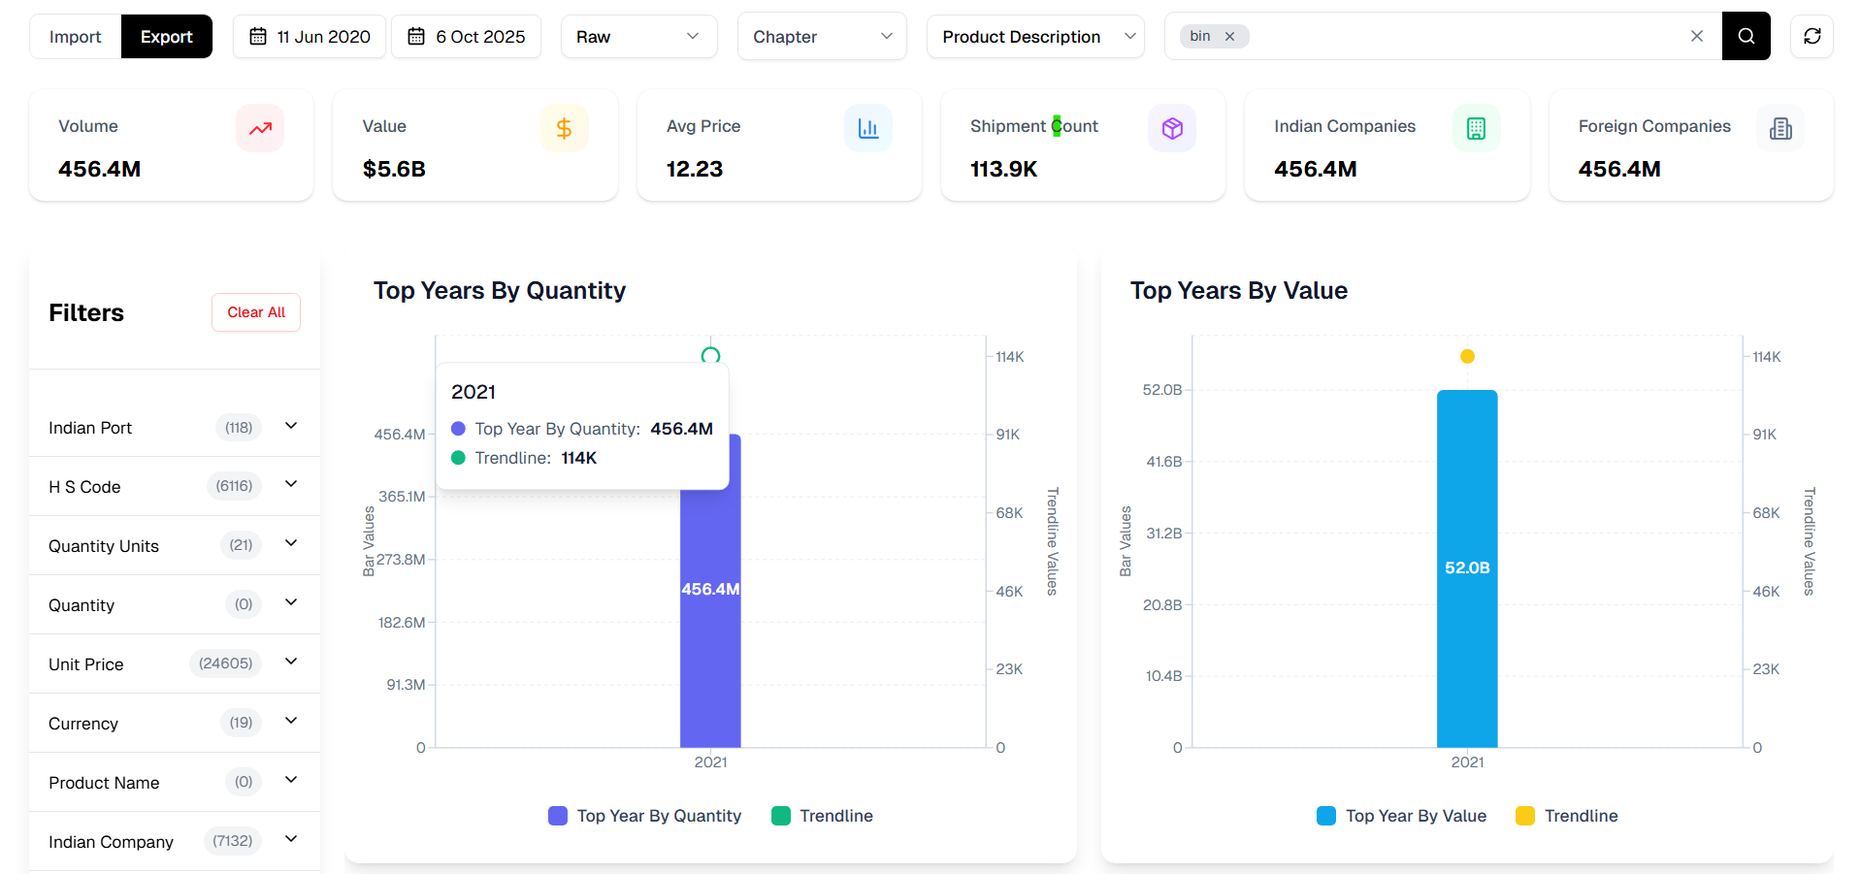
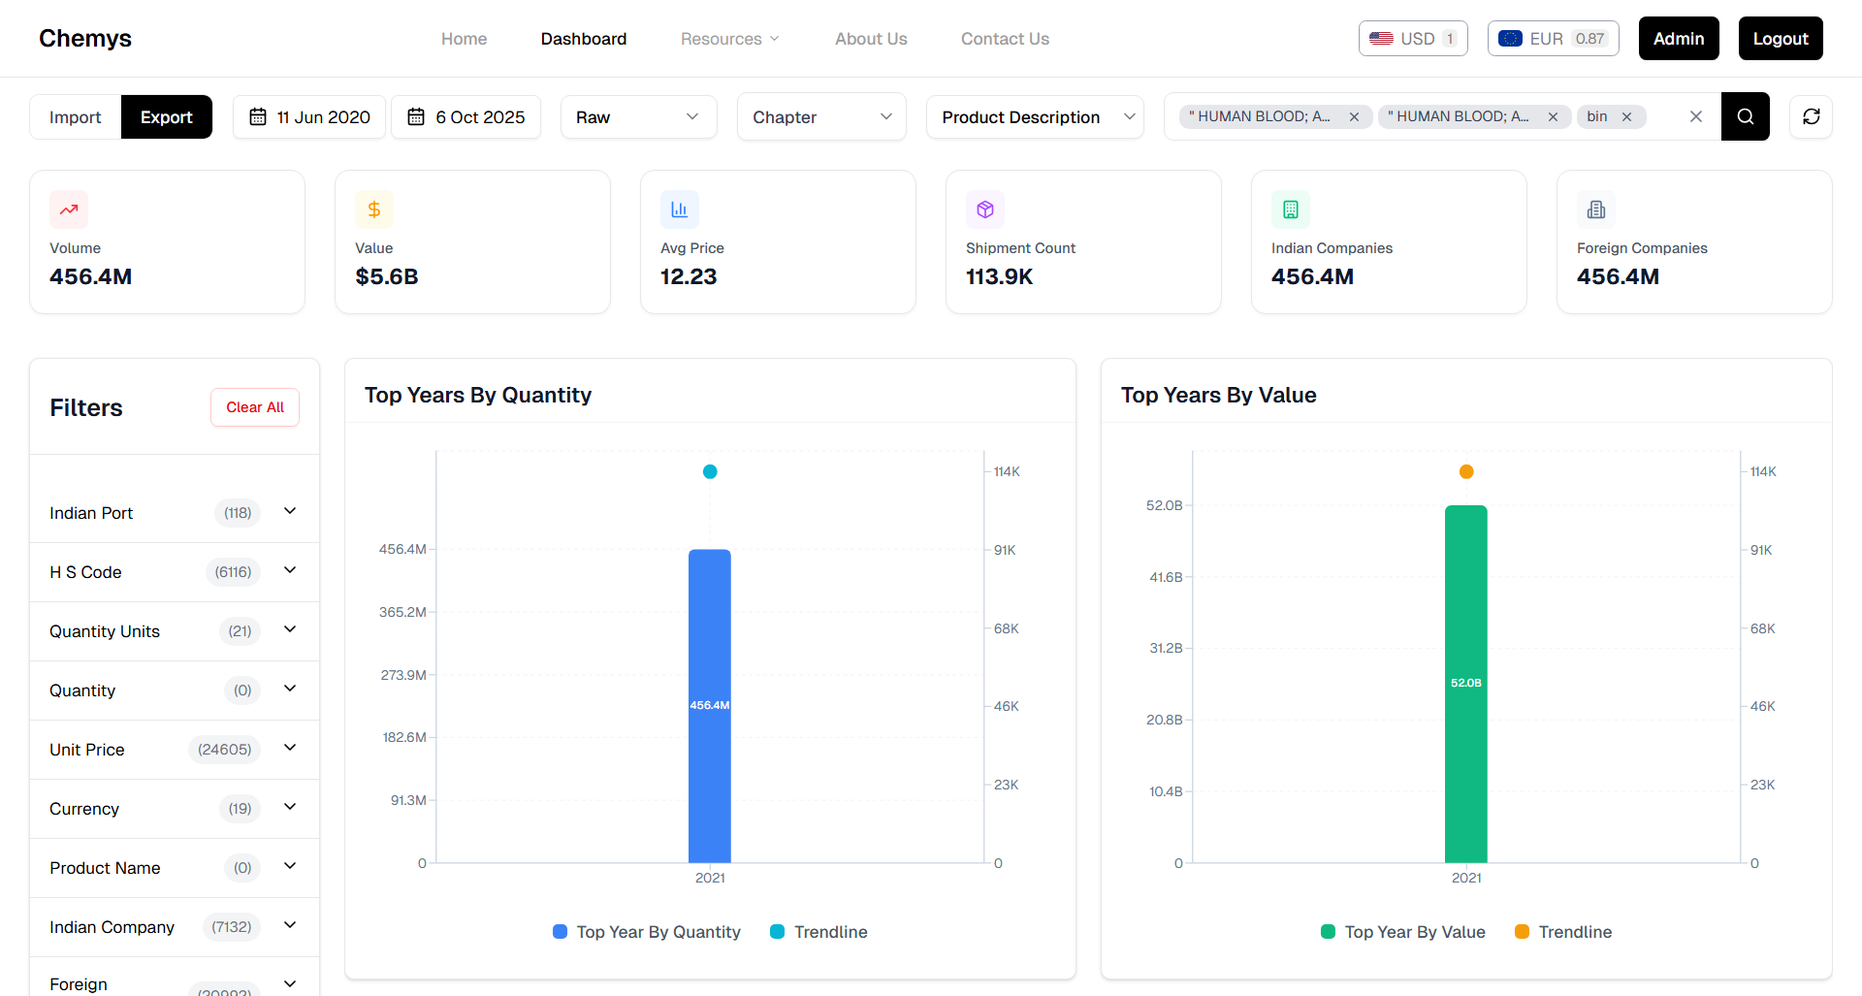
Fixed issues

diff --git a/src/components/BarChart.tsx b/src/components/BarChart.tsx
@@ -90,7 +90,7 @@ export default function BarChart({
         const { x, y, width, height, value } = props
         const formattedValue = formatValue(value)
 
-        if (height < 30) return <g />
+        if (height < 25) return <g />
 
         return (
             <text
@@ -99,8 +99,8 @@ export default function BarChart({
                 fill="white"
                 textAnchor="middle"
                 dominantBaseline="middle"
-                fontSize={13}
-                fontWeight="600"
+                fontSize={9}
+                fontWeight="500"
             >
                 {formattedValue}
             </text>
@@ -114,9 +114,9 @@ export default function BarChart({
     }
 
     return (
-        <div className="bg-white rounded-xl shadow-lg overflow-hidden flex-1">
-            <div className="px-6 pt-6 pb-2">
-                <h3 className="text-xl font-semibold text-slate-900">{title}</h3>
+        <div className="bg-white rounded-lg shadow-sm border border-gray-200 overflow-hidden flex-1">
+            <div className="px-4 pt-4 pb-2 mb-2 border-b border-gray-100">
+                <h3 className="text-lg font-semibold text-gray-900">{title}</h3>
             </div>
 
             <div className="" onWheel={handleWheel}>
@@ -125,53 +125,33 @@ export default function BarChart({
                         data={slicedData}
                         margin={{ top: 15, right: 15, left: 15, bottom: 15 }}
                     >
-                        <CartesianGrid strokeDasharray="3 3" className="opacity-30" />
+                        <CartesianGrid strokeDasharray="3 3" className="opacity-20" />
 
                         <XAxis
                             dataKey="name"
-                            tick={{ fill: "#64748b", fontSize: 12 }}
+                            tick={{ fill: "#64748b", fontSize: 11 }}
                             axisLine={{ stroke: "#cbd5e1" }}
                             tickLine={{ stroke: "#cbd5e1" }}
                         />
 
                         <YAxis
                             yAxisId="left"
-                            tick={{ fill: "#64748b", fontSize: 12 }}
+                            tick={{ fill: "#64748b", fontSize: 11 }}
                             tickFormatter={formatValue}
                             axisLine={{ stroke: "#cbd5e1" }}
                             tickLine={{ stroke: "#cbd5e1" }}
                             ticks={yAxisTicks}
-                            label={{
-                                value: "Bar Values",
-                                angle: -90,
-                                position: "insideLeft",
-                                style: {
-                                    textAnchor: "middle",
-                                    fill: "#6b7280",
-                                    fontSize: "12px",
-                                },
-                            }}
                         />
 
                         {showTrendline && trendData && (
                             <YAxis
                                 yAxisId="right"
                                 orientation="right"
-                                tick={{ fill: "#64748b", fontSize: 12 }}
+                                tick={{ fill: "#64748b", fontSize: 11 }}
                                 tickFormatter={formatValue}
                                 axisLine={{ stroke: "#cbd5e1" }}
                                 tickLine={{ stroke: "#cbd5e1" }}
                                 ticks={trendAxisTicks}
-                                label={{
-                                    value: "Trendline Values",
-                                    angle: 90,
-                                    position: "insideRight",
-                                    style: {
-                                        textAnchor: "middle",
-                                        fill: "#6b7280",
-                                        fontSize: "12px",
-                                    },
-                                }}
                             />
                         )}
 
@@ -179,21 +159,21 @@ export default function BarChart({
                             content={({ active, payload, label }) => {
                                 if (active && payload && payload.length) {
                                     return (
-                                        <div className="bg-white p-3 border border-slate-200 rounded-lg shadow-lg">
-                                            <p className="font-medium text-slate-900 mb-2">{label}</p>
+                                        <div className="bg-white p-2 border border-gray-200 rounded-md shadow-sm">
+                                            <p className="font-medium text-gray-900 mb-1 text-xs">{label}</p>
                                             {payload.map((entry, index) => (
                                                 <div
                                                     key={index}
-                                                    className="flex items-center gap-2 mb-1"
+                                                    className="flex items-center gap-1.5 mb-0.5"
                                                 >
                                                     <div
-                                                        className="w-3 h-3 rounded-full"
+                                                        className="w-2 h-2 rounded-full"
                                                         style={{ backgroundColor: entry.color }}
                                                     />
-                                                    <span className="text-slate-600 text-sm">
+                                                    <span className="text-gray-600 text-xs">
                                                         {entry.name}:
                                                     </span>
-                                                    <span className="font-semibold text-slate-900 text-sm">
+                                                    <span className="font-semibold text-gray-900 text-xs">
                                                         {formatValue(entry.value as number)}
                                                     </span>
                                                 </div>
@@ -214,10 +194,10 @@ export default function BarChart({
                                     {payload?.map((entry, index) => (
                                         <div
                                             key={index}
-                                            className="flex items-center gap-2 text-slate-700 text-sm font-medium"
+                                            className="flex items-center gap-2 text-gray-600 text-sm font-medium"
                                         >
                                             <div
-                                                className="w-4 h-4 rounded-sm"
+                                                className="w-3 h-3 rounded-sm"
                                                 style={{ backgroundColor: entry.color }}
                                             />
                                             <span>{entry.value}</span>
@@ -234,7 +214,7 @@ export default function BarChart({
                             fill={barColor}
                             radius={[5, 5, 0, 0]}
                             label={renderCustomizedLabel}
-                            maxBarSize={50}
+                            maxBarSize={35}
                         />
 
                         {showTrendline && trendData && (

diff --git a/src/pages/dashboard.tsx b/src/pages/dashboard.tsx
@@ -150,8 +150,8 @@ const Dashboard = () => {
                                         barLabel="Top Year By Quantity"
                                         trendLabel="Trendline"
                                         showTrendline={true}
-                                        barColor="#6366f1"
-                                        trendColor="#10b981"
+                                        barColor="#3b82f6"
+                                        trendColor="#06b6d4"
                                     />
                                 )}
                                 {yearsByValue && yearsByValue.labels && yearsByValue.labels.length > 0 && (
@@ -163,8 +163,8 @@ const Dashboard = () => {
                                         barLabel="Top Year By Value"
                                         trendLabel="Trendline"
                                         showTrendline={true}
-                                        barColor="#0ea5e9"
-                                        trendColor="#facc15"
+                                        barColor="#10b981"
+                                        trendColor="#f59e0b"
                                     />
                                 )}
                             </div>
@@ -178,8 +178,8 @@ const Dashboard = () => {
                                         barLabel="Top Buyer By Quantity"
                                         trendLabel="Trendline"
                                         showTrendline={true}
-                                        barColor="#0891b2"
-                                        trendColor="#c084fc"
+                                        barColor="#6366f1"
+                                        trendColor="#10b981"
                                     />
                                 )}
                                 {buyersByValue && buyersByValue.labels && buyersByValue.labels.length > 0 && (
@@ -191,8 +191,8 @@ const Dashboard = () => {
                                         barLabel="Top Buyer By Value"
                                         trendLabel="Trendline"
                                         showTrendline={true}
-                                        barColor="#64748b"
-                                        trendColor="#f97316"
+                                        barColor="#8b5cf6"
+                                        trendColor="#f59e0b"
                                     />
                                 )}
                             </div>
@@ -206,8 +206,8 @@ const Dashboard = () => {
                                         barLabel="Top Supplier By Quantity"
                                         trendLabel="Trendline"
                                         showTrendline={true}
-                                        barColor="#7c3aed"
-                                        trendColor="#f472b6"
+                                        barColor="#06b6d4"
+                                        trendColor="#ef4444"
                                     />
                                 )}
                                 {supplierByValue && supplierByValue.labels && supplierByValue.labels.length > 0 && (
@@ -219,8 +219,8 @@ const Dashboard = () => {
                                         barLabel="Top Supplier By Value"
                                         trendLabel="Trendline"
                                         showTrendline={true}
-                                        barColor="#1e40af"
-                                        trendColor="#10b981"
+                                        barColor="#14b8a6"
+                                        trendColor="#f97316"
                                     />
                                 )}
                             </div>
@@ -234,8 +234,8 @@ const Dashboard = () => {
                                         barLabel="Top Indian Port By Quantity"
                                         trendLabel="Trendline"
                                         showTrendline={true}
-                                        barColor="#2563eb"
-                                        trendColor="#f87171"
+                                        barColor="#dc2626"
+                                        trendColor="#06b6d4"
                                     />
                                 )}
                                 {indianPortByValue && indianPortByValue.labels && indianPortByValue.labels.length > 0 && (
@@ -247,8 +247,8 @@ const Dashboard = () => {
                                         barLabel="Top Indian Port By Value"
                                         trendLabel="Trendline"
                                         showTrendline={true}
-                                        barColor="#a855f7"
-                                        trendColor="#22d3ee"
+                                        barColor="#7c3aed"
+                                        trendColor="#10b981"
                                     />
                                 )}
                             </div>
@@ -262,8 +262,8 @@ const Dashboard = () => {
                                         barLabel="Top Country By Quantity"
                                         trendLabel="Trendline"
                                         showTrendline={true}
-                                        barColor="#14b8a6"
-                                        trendColor="#eab308"
+                                        barColor="#0891b2"
+                                        trendColor="#f59e0b"
                                     />
                                 )}
                                 {countryByValue && countryByValue.labels && countryByValue.labels.length > 0 && (
@@ -275,8 +275,8 @@ const Dashboard = () => {
                                         barLabel="Top Country By Value"
                                         trendLabel="Trendline"
                                         showTrendline={true}
-                                        barColor="#8b5cf6"
-                                        trendColor="#34d399"
+                                        barColor="#a855f7"
+                                        trendColor="#06b6d4"
                                     />
                                 )}
                             </div>
@@ -290,8 +290,8 @@ const Dashboard = () => {
                                         barLabel="Top HS Code By Quantity"
                                         trendLabel="Trendline"
                                         showTrendline={true}
-                                        barColor="#334155"
-                                        trendColor="#2dd4bf"
+                                        barColor="#64748b"
+                                        trendColor="#10b981"
                                     />
                                 )}
                                 {hsCodeByValue && hsCodeByValue.labels && hsCodeByValue.labels.length > 0 && (
@@ -303,8 +303,8 @@ const Dashboard = () => {
                                         barLabel="Top HS Code By Value"
                                         trendLabel="Trendline"
                                         showTrendline={true}
-                                        barColor="#fda4af"
-                                        trendColor="#1e293b"
+                                        barColor="#f87171"
+                                        trendColor="#3b82f6"
                                     />
                                 )}
                             </div>

diff --git a/src/components/AppliedFilters.tsx b/src/components/AppliedFilters.tsx
@@ -203,25 +203,29 @@ export default function AppliedFilters() {
             </div>
 
             {isExpanded && (
-                <div className="mt-3 flex flex-wrap gap-2">
-                    {appliedFilters.map((filter, index) => (
-                        <Badge
-                            key={`${filter.type}-${index}`}
-                            variant="secondary"
-                            className="flex items-center gap-1 bg-blue-100 text-blue-800 border-blue-200 px-2 py-1 text-xs"
-                        >
-                            <span className="font-medium">{filter.label}:</span>
-                            <span className="truncate max-w-[120px]">{filter.value}</span>
-                            <button
-                                type="button"
-                                onClick={filter.onRemove}
-                                disabled={isLoading}
-                                className="ml-1 rounded-full outline-none ring-offset-background focus:ring-2 focus:ring-ring focus:ring-offset-2 hover:bg-blue-200 p-0.5 disabled:opacity-50"
-                            >
-                                <X className="h-3 w-3" />
-                            </button>
-                        </Badge>
-                    ))}
+                <div className="mt-3 bg-white rounded-lg p-3 border border-gray-200">
+                    <div className="max-h-28 overflow-y-auto">
+                        <div className="flex flex-wrap gap-2">
+                            {appliedFilters.map((filter, index) => (
+                                <Badge
+                                    key={`${filter.type}-${index}`}
+                                    variant="secondary"
+                                    className="flex items-center gap-1.5 bg-gray-50 text-gray-700 border border-gray-200 px-2.5 py-1.5 text-xs shadow-sm hover:bg-gray-100 transition-all duration-200"
+                                >
+                                    <span className="font-medium text-gray-600">{filter.label}:</span>
+                                    <span className="truncate max-w-[100px] text-gray-800">{filter.value}</span>
+                                    <button
+                                        type="button"
+                                        onClick={filter.onRemove}
+                                        disabled={isLoading}
+                                        className="ml-1 rounded-full outline-none hover:bg-red-100 p-1 disabled:opacity-50 transition-colors group"
+                                    >
+                                        <X className="h-2.5 w-2.5 text-gray-400 group-hover:text-red-500" />
+                                    </button>
+                                </Badge>
+                            ))}
+                        </div>
+                    </div>
                 </div>
             )}
         </div>

diff --git a/src/components/HierarchicalHSCode.tsx b/src/components/HierarchicalHSCode.tsx
@@ -188,7 +188,7 @@ export default function HierarchicalHSCode({
 
                                 {/* Headings Level */}
                                 {isChapterExpanded && (
-                                    <div className="ml-6 space-y-1">
+                                    <div className="ml-3 space-y-1">
                                         {Object.entries(chapterData).map(([heading, headingData]) => {
                                             const headingKey = `heading-${heading}`;
                                             const isHeadingExpanded = expanded[headingKey];
@@ -222,7 +222,7 @@ export default function HierarchicalHSCode({
 
                                                     {/* Subheadings Level */}
                                                     {isHeadingExpanded && (
-                                                        <div className="ml-6 space-y-1">
+                                                        <div className="ml-3 space-y-1">
                                                             {Object.entries(headingData).map(([subheading, codes]) => {
                                                                 const subheadingKey = `subheading-${subheading}`;
                                                                 const isSubheadingExpanded = expanded[subheadingKey];
@@ -256,7 +256,7 @@ export default function HierarchicalHSCode({
 
                                                                         {/* Individual Codes Level */}
                                                                         {isSubheadingExpanded && (
-                                                                            <div className="ml-6 space-y-1">
+                                                                            <div className="ml-3 space-y-1">
                                                                                 {codes.map((code) => (
                                                                                     <div key={code} className="flex items-center gap-2 py-1 px-2 hover:bg-gray-50 rounded">
                                                                                         <div className="w-6" /> {/* Spacer for alignment */}

diff --git a/src/components/FilterSidebar.tsx b/src/components/FilterSidebar.tsx
@@ -377,10 +377,10 @@ export default function FilterSidebar() {
 
     const FilterPanelContent = useMemo(
         () => (
-            <Card className="rounded-xl shadow-lg border-none bg-white text-foreground flex flex-col min-w-[15rem] sticky top-5 z-40 max-h-[calc(100vh-2rem)]">
-                <CardHeader className="px-4 py-4 border-b border-gray-200 flex-shrink-0">
+            <Card className="rounded-lg shadow-sm border border-gray-200 bg-white text-foreground flex flex-col min-w-[15rem] sticky top-5 z-40 max-h-[calc(100vh-2rem)]">
+                <CardHeader className="px-4 border-b border-gray-200 flex-shrink-0 !pb-4">
                     <div className="flex items-center justify-between">
-                        <CardTitle className="text-xl font-bold">Filters</CardTitle>
+                        <CardTitle className="text-xl font-semibold text-gray-900">Filters</CardTitle>
                         <Button
                             onClick={handleClearAllFilters}
                             disabled={isLoading}
@@ -508,7 +508,7 @@ export default function FilterSidebar() {
                                                                 <Label
                                                                     key={option}
                                                                     htmlFor={`${category}-${option}`}
-                                                                    className="flex items-center space-x-4 text-sm text-gray-600 cursor-pointer py-1 px-2 rounded-md hover:bg-accent/50 transition-colors duration-150"
+                                                                    className="flex items-center space-x-4 text-sm text-gray-600 cursor-pointer py-1 px-2 rounded-md hover:bg-accent/50 transition-colors duration-150 font-normal"
                                                                 >
                                                                     <Checkbox
                                                                         id={`${category}-${option}`}

diff --git a/src/components/Stats.tsx b/src/components/Stats.tsx
@@ -57,7 +57,7 @@ const Stats = () => {
             {statsData.map((stat, index) => {
                 const Icon = stat.icon;
                 return (
-                    <Card key={index} className="bg-white p-0 shadow-sm border border-gray-200">
+                    <Card key={index} className="bg-white p-0 border border-gray-200" style={{ boxShadow: '0 1px 3px 0 rgba(0, 0, 0, 0.04)' }}>
                         <CardContent className="p-4">
                             <div className="flex items-center justify-between mb-2">
                                 <div className={`p-2 rounded-md ${stat.bgColor}`}>
